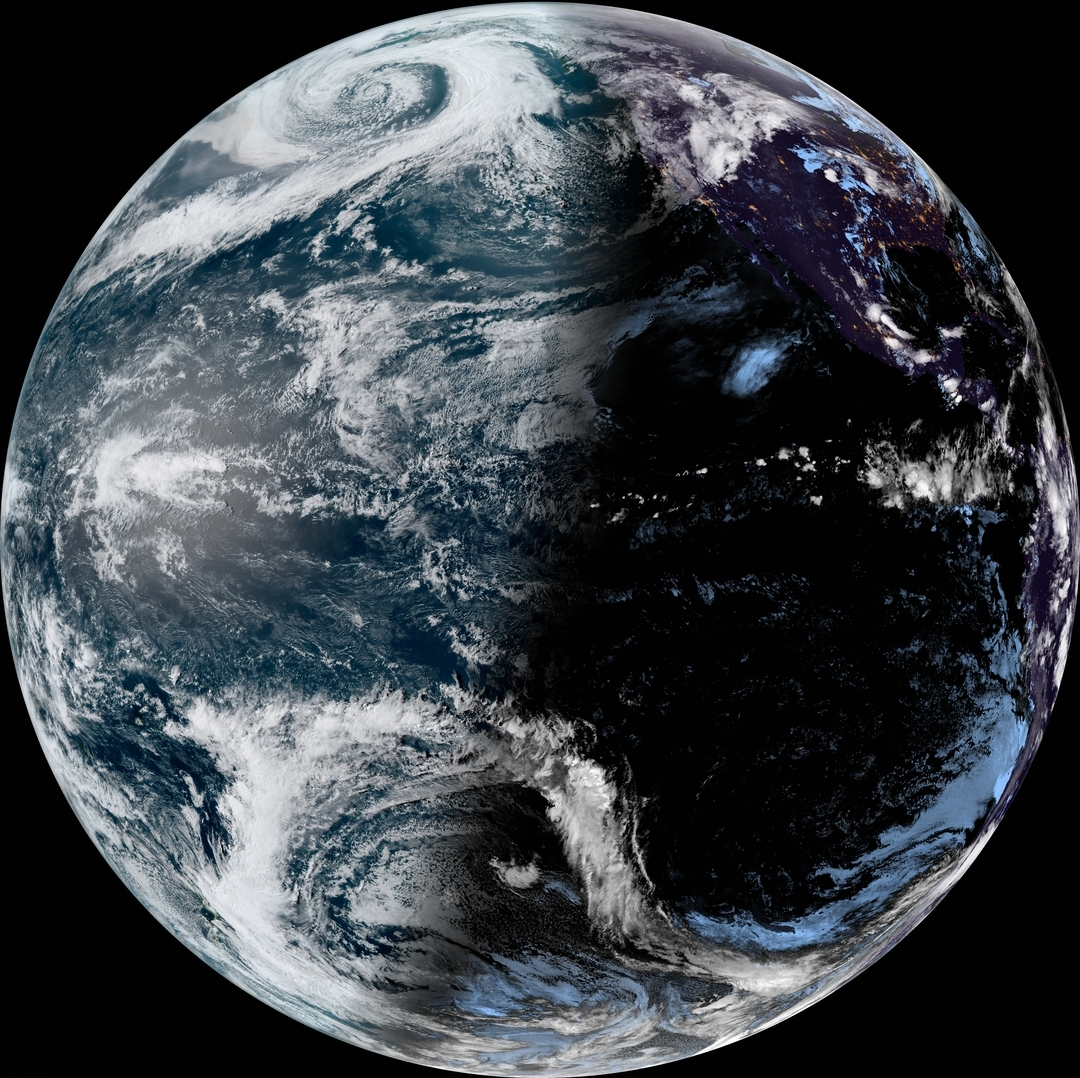
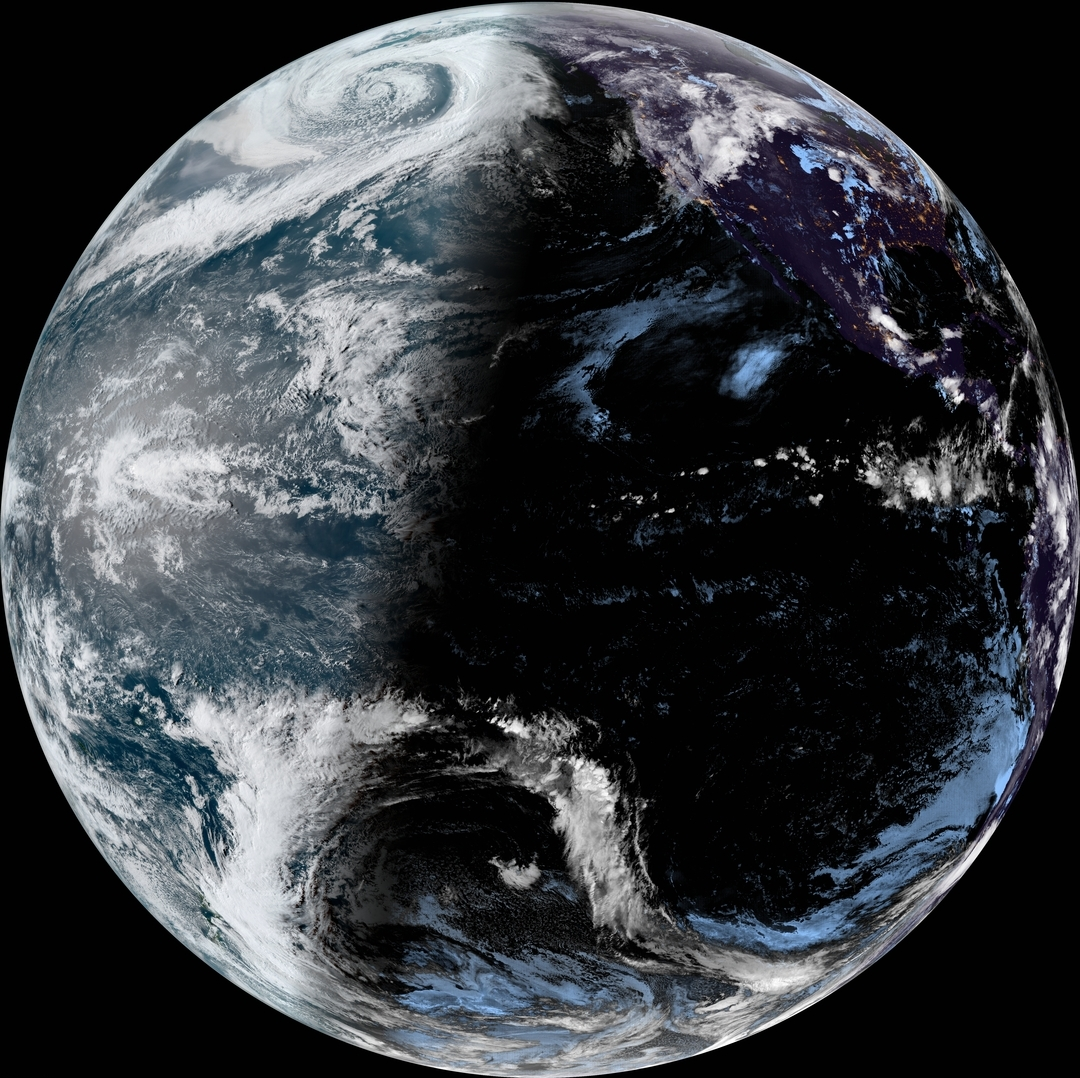
deploy: a49045d199c86a5c947d0675c90debd10359c17e

diff --git a/index.html b/index.html
@@ -96,7 +96,7 @@
   </div>
 
   <p class="colophon">
-    Last updated <date datetime="2022-04-22T02:46:41.353Z">2022-04-22T02:46:41.353Z</date>.
+    Last updated <date datetime="2022-04-22T03:32:16.579Z">2022-04-22T03:32:16.579Z</date>.
     Updates every hour.<br>
     Source code is available <a href="https://github.com/ungoldman/latest-earth">here</a>.
   </p>
